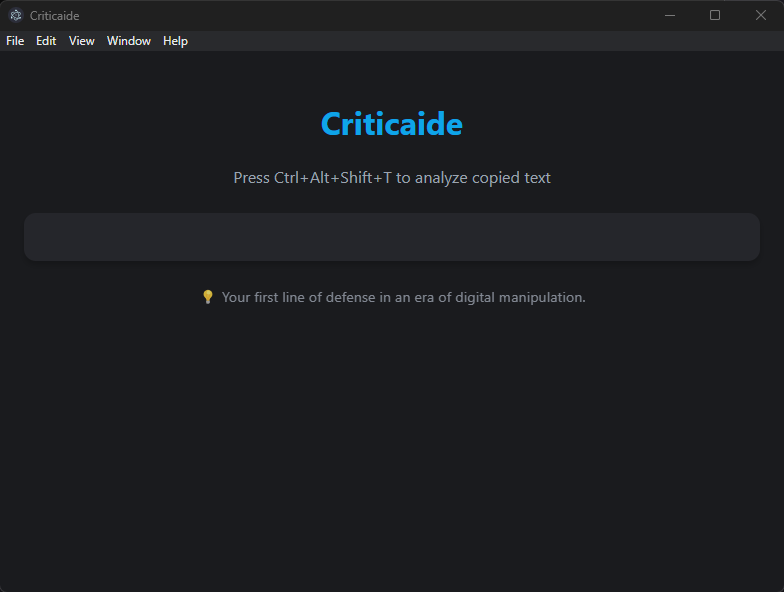
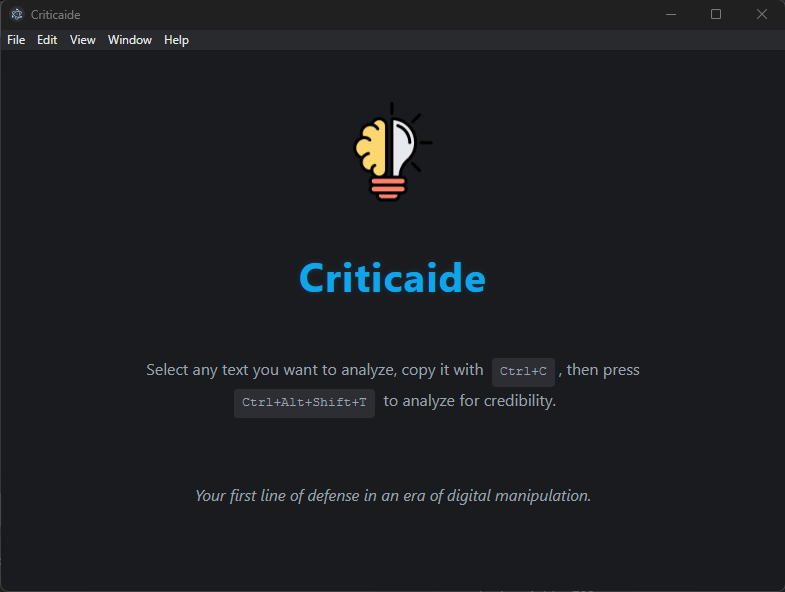
Updated UI to be sick

diff --git a/src/renderer-agents.js b/src/renderer-agents.js
@@ -2,6 +2,12 @@ console.log('Simplified renderer-agents.js loaded!');
 
 document.addEventListener('DOMContentLoaded', () => {
     console.log('DOM content loaded in simplified-renderer-agents.js');
+
+    // Update the shortcut text in the header based on platform
+    const headerSubtitle = document.querySelector('.header-subtitle');
+    const isMac = window.api.platform === 'darwin';
+    const shortcutText = isMac ? 'Cmd+Option+Shift+T' : 'Ctrl+Alt+Shift+T';
+    headerSubtitle.textContent = `Press ${shortcutText} to analyze copied text`;
     
     // Configuration
     const specialistTypes = {
@@ -46,26 +52,32 @@ document.addEventListener('DOMContentLoaded', () => {
         const loadingDiv = document.getElementById('loading');
         if (!loadingDiv) return;
         
+        // Determine platform-specific shortcuts
+        const isMac = window.api.platform === 'darwin';
+        const copyShortcut = isMac ? 'Cmd+C' : 'Ctrl+C';
+        const analyzeShortcut = isMac ? 'Cmd+Option+Shift+T' : 'Ctrl+Alt+Shift+T';
+        
+        // Use the actual app icon
+        const iconHtml = `<img src="../resources/icons/icon.png" alt="Criticaide Logo" class="criticaide-logo">`;
+        
         loadingDiv.innerHTML = `
             <div class="empty-state">
-                <div class="empty-state-icon">🔍</div>
-                <h2 class="empty-state-title">Criticaide Agents</h2>
+                <div class="logo-container">
+                    ${iconHtml}
+                </div>
+                <h2 class="empty-state-title"><span class="criticaide-title">Criticaide</span></h2>
                 <p class="empty-state-subtitle">
                     Select any text you want to analyze, copy it with 
-                    <span class="keyboard-shortcut">Ctrl+C</span> or 
-                    <span class="keyboard-shortcut">Cmd+C</span>, 
+                    <span class="keyboard-shortcut">${copyShortcut}</span>, 
                     then press 
-                    <span class="keyboard-shortcut keyboard-shortcut-text">Ctrl+Alt+Shift+T</span> 
+                    <span class="keyboard-shortcut">${analyzeShortcut}</span> 
                     to analyze for credibility.
                 </p>
-                <p class="empty-state-subtitle">
-                    Criticaide will help identify potential misinformation, manipulation tactics,
-                    and credibility issues in the text.
+                <p class="empty-state-subtitle tagline">
+                    Your first line of defense in an era of digital manipulation.
                 </p>
             </div>
         `;
-        
-        updateShortcutText();
     }
     
     // Create analysis UI with fixed header approach

diff --git a/src/agent-style.css b/src/agent-style.css
@@ -401,3 +401,63 @@
       margin: 0 0 1rem 0;
     }
   }
+
+    .criticaide-blue {
+      color: var(--color-primary);
+  }
+
+  .app-footer .shortcut-hint {
+      color: var(--color-text-secondary);
+      font-size: 0.9rem;
+  }
+
+  .criticaide-logo {
+      width: 100px;
+      height: 100px;
+      animation: float 3s ease-in-out infinite;
+  }
+
+  @keyframes float {
+      0%, 100% { transform: translateY(0px); }
+      50% { transform: translateY(-10px); }
+  }
+
+  .logo-container {
+      margin-bottom: 1rem;
+  }
+
+  /* More prominent title styling */
+  .criticaide-title {
+      color: var(--color-primary);
+      font-size: 2.5rem;
+      font-weight: 700;
+      text-shadow: 0 0 10px rgba(14, 165, 233, 0.3);
+      letter-spacing: 1px;
+      display: inline-block;
+      animation: glow 1.5s ease-in-out infinite alternate;
+  }
+
+  @keyframes glow {
+      from {
+          text-shadow: 0 0 5px rgba(14, 165, 233, 0.2);
+      }
+      to {
+          text-shadow: 0 0 15px rgba(14, 165, 233, 0.5);
+      }
+  }
+
+  /* Style the tagline */
+  .tagline {
+      color: var(--color-text-secondary);
+      font-style: italic;
+      margin-top: 2rem;
+  }
+
+  /* Enhance the empty state overall */
+  .empty-state {
+      padding: 3rem;
+  }
+
+  .empty-state-title {
+      margin-bottom: 2rem;
+  }

diff --git a/src/index-agents.html b/src/index-agents.html
@@ -3,15 +3,15 @@
 <head>
     <meta charset="UTF-8">
     <meta name="viewport" content="width=device-width, initial-scale=1.0">
-    <title>Criticaide Agents PoC</title>
+    <title>Criticaide</title>
     <link rel="stylesheet" href="style.css">
     <link rel="stylesheet" href="agent-style.css">
 </head>
 <body>
     <main class="app-container">
         <header class="app-header">
-            <h1>Criticaide Agents</h1>
-            <p class="header-subtitle">Press Ctrl+Alt+Shift+T to analyze copied text</p>
+            <h1><span class="criticaide-blue">Criticaide</span></h1>
+            <p class="header-subtitle" id="shortcut-text">Press Ctrl+Alt+Shift+T to analyze copied text</p>
         </header>
         
         <div id="results" class="results-container" style="display: none;">
@@ -22,7 +22,7 @@
         </div>
 
         <footer class="app-footer">
-            <p class="shortcut-hint">💡 Progressive AI Agents for Credibility Analysis.</p>
+            <p class="shortcut-hint">Your first line of defense in an era of digital manipulation.</p>
         </footer>
     </main>
     <script src="renderer-agents.js"></script>
